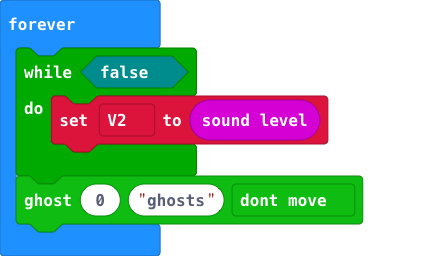
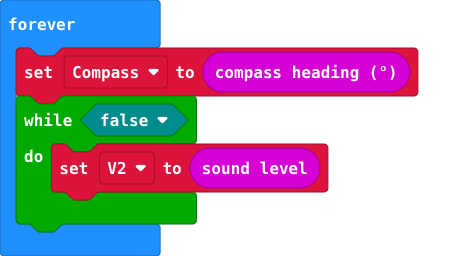
Update main.blocks, main.ts

diff --git a/main.ts b/main.ts
@@ -1,7 +1,8 @@
+let Compass = 0
 let V2 = 0
 basic.forever(function () {
+    Compass = input.compassHeading()
     while (false) {
         V2 = input.soundLevel()
     }
-    pacman.ghost(0, "ghosts", MyEnum.One)
 })
